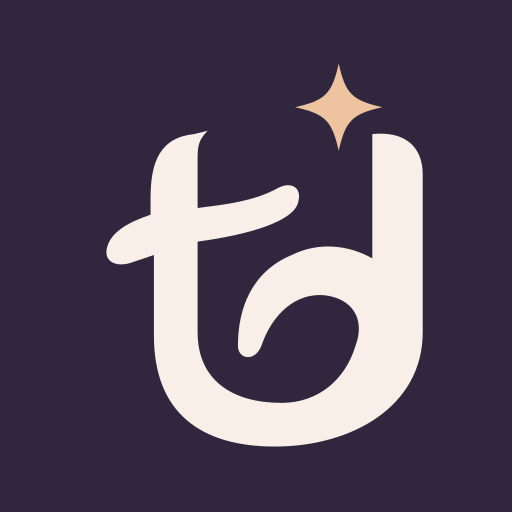
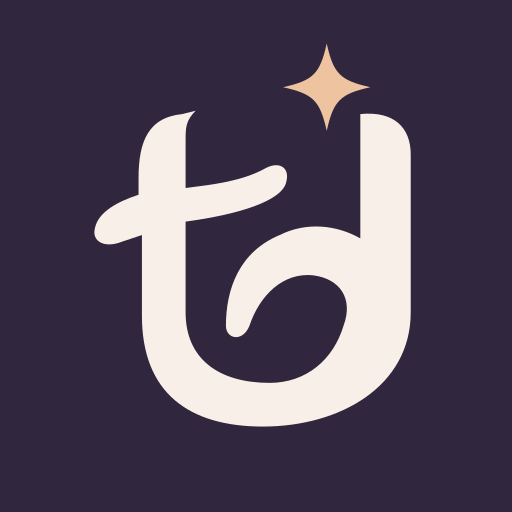
fix: center shortcut monogram optically

Changed region(s): [[0.1875, 0.0938, 0.8438, 0.875]]

diff --git a/web/shared/brand.js b/web/shared/brand.js
@@ -15,4 +15,4 @@ const hats={
  atelier:'<path d="M13 29Q15 10 35 11Q53 11 54 27L46 34 19 36Z"/><path class="hat-band" d="M17 31 48 27 48 34 18 39Z"/>'
 };
 export function brandHat(layout){const key=Object.hasOwn(hats,layout)?layout:'halloween';return `<g class="brand-hat" data-hat="${key}">${hats[key]}</g>`}
-export function brandIconSVG(){return `<svg xmlns="http://www.w3.org/2000/svg" viewBox="0 0 128 128"><rect width="128" height="128" rx="28" fill="#30263e"/><g transform="translate(20 10) scale(.84)" color="#f8f0e8">${brandMonogram}</g></svg>`}
+export function brandIconSVG(){return `<svg xmlns="http://www.w3.org/2000/svg" viewBox="0 0 128 128"><rect width="128" height="128" rx="28" fill="#30263e"/><g transform="translate(17 5) scale(.84)" color="#f8f0e8">${brandMonogram}</g></svg>`}
